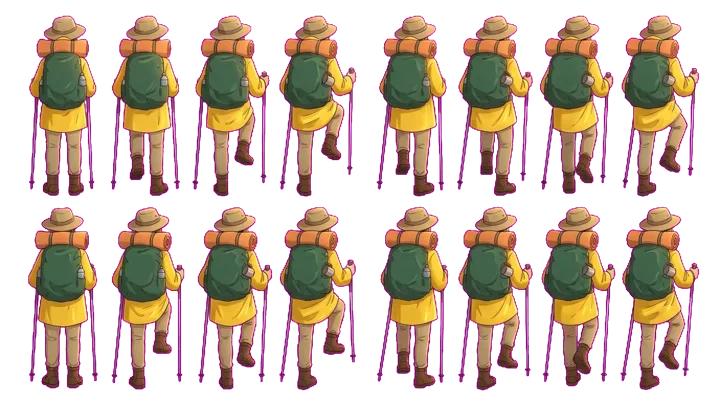
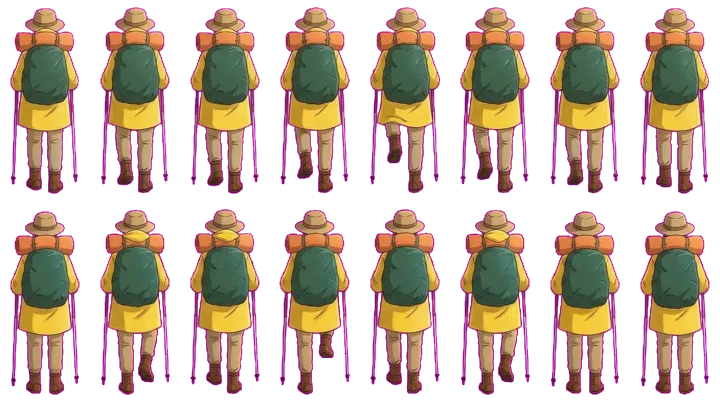
爬階梯換成 16 格（晴天、雨天，左右膝輪流），踩上台階那一格對齊爬階梯節奏；版本 80

diff --git a/js/trail.js b/js/trail.js
@@ -148,7 +148,7 @@ const GAIT = {
 // 走路圖的高度修正：每張圖量「帽頂到鞋底」佔整格多高（量出來都在 97～100%），用一般走路圖當基準換算，換圖時人不會忽大忽小。重畫了圖要重新量
 // 一般走路：正背面十六格圖（格子播放順序在 art.js 的 WALK16 重排，左右腳輪流）
 const WALK_DRY = 'hiker_walk16', WALK_RAIN = 'hiker_rain_walk16';
-const GAIT_H = { hiker_walk:1, hiker_rain_walk:1, hiker_walk16:1, hiker_rain_walk16:1, hiker_walk8:1, hiker_rain_walk8:1, hiker_stairs8:1, hiker_rain_stairs8:0.995, hiker_tired_walk8:1, hiker_rain_tired_walk8:1.013, hiker_turn_walk8:1.005 };
+const GAIT_H = { hiker_walk:1, hiker_rain_walk:1, hiker_walk16:1, hiker_rain_walk16:1, hiker_stairs16:1, hiker_rain_stairs16:1, hiker_walk8:1, hiker_rain_walk8:1, hiker_stairs8:1, hiker_rain_stairs8:0.995, hiker_tired_walk8:1, hiker_rain_tired_walk8:1.013, hiker_turn_walk8:1.005 };
 const gait = { act:null, at:0, dur:0, aflip:false, sid:'', sf:false, tB:90, tH:90, tI:140, lookM:-1, lvl:0, pace:1, mode:'walk', modeT:9, modeF:false, bendT:0, tired:false, cur:'', curF:false, prev:'', prevF:false, k:1 };
 const parts = [], flyers = []; let pIdx = 0;
 let curS = null, curT = 0, heroDone = false;
@@ -1477,7 +1477,7 @@ function gaitMode(dt, dist, stam){
 S.pace = function(){ return gait.pace; };
 S.gait = function(){ return { g:gait, stair:hero.stair, turn:hero.turn, mv:hero.mv, ph:hero.ph, stepL:hero.stepL }; };   // 測試掛鉤：看現在的步態、把計時器歸零來測試各種動作
 // 現在要用哪一張走路圖、要不要鏡射（寫在 gait.sid、gait.sf；每格都會跑，不產生新的陣列、字串）
-const RAIN_OF = { hiker_stairs8:'hiker_rain_stairs8', hiker_tired_walk8:'hiker_rain_tired_walk8' };   // 下雨天：有穿雨衣的版本就用
+const RAIN_OF = { hiker_stairs16:'hiker_rain_stairs16', hiker_stairs8:'hiker_rain_stairs8', hiker_tired_walk8:'hiker_rain_tired_walk8' };   // 下雨天：有穿雨衣的版本就用
 function rainy(id){ const r = RAIN_OF[id]; return isRain && r && ART.get(r) ? r : id; }
 function gaitSheet(){
   gait.sf = false;
@@ -1485,7 +1485,7 @@ function gaitSheet(){
   // 一般走路：正背面十六格圖（WALK_DRY／WALK_RAIN），下雨天穿黃色雨衣
   const walk = isRain && ART.get(WALK_RAIN) ? WALK_RAIN : WALK_DRY;
   // 階梯、累了：重畫成正背面直直走的版本（雨天換雨衣版）；彎道：轉身圖（往右前方，左彎鏡射），沒有雨衣版所以雨天照舊一般走路
-  const m = gait.mode, id = m === 'stairs' ? rainy('hiker_stairs8') : m === 'tired' ? rainy('hiker_tired_walk8') : null;   // 轉彎也用一般走路圖（側面大跨步的轉彎圖腳張太開，跟正背面走路對不起來，不用）
+  const m = gait.mode, id = m === 'stairs' ? rainy(ART.get('hiker_stairs16') ? 'hiker_stairs16' : 'hiker_stairs8') : m === 'tired' ? rainy('hiker_tired_walk8') : null;   // 轉彎也用一般走路圖（側面大跨步的轉彎圖腳張太開，跟正背面走路對不起來，不用）
   if (id && ART.get(id)) { gait.sid = id; gait.sf = m === 'turn' && gait.modeF; }
   else gait.sid = walk;
 }

diff --git a/index.html b/index.html
@@ -12,7 +12,7 @@
 <link rel="preconnect" href="https://fonts.googleapis.com">
 <link rel="preconnect" href="https://fonts.gstatic.com" crossorigin>
 <link href="https://fonts.googleapis.com/css2?family=Iansui&family=LXGW+WenKai+TC&display=swap" rel="stylesheet">
-<link rel="stylesheet" href="css/style.css?v=79">
+<link rel="stylesheet" href="css/style.css?v=80">
 </head>
 <body>
 <div id="app">
@@ -91,19 +91,19 @@
   <input type="file" id="upFile" accept="image/*" hidden>
 </div>
 
-<script src="js/data.js?v=79"></script>
-<script src="js/motion.js?v=79"></script>
-<script src="js/audio.js?v=79"></script>
-<script src="js/clay.js?v=79"></script>
-<script src="js/art.js?v=79"></script>
-<script src="js/gl2d.js?v=79"></script>
-<script src="js/trail.js?v=79"></script>
-<script src="js/worldmap.js?v=79"></script>
-<script src="js/hud.js?v=79"></script>
-<script src="js/game.js?v=79"></script>
-<script src="js/config.js?v=79"></script>
-<script src="js/plaza.js?v=79"></script>
-<script src="js/social.js?v=79"></script>
+<script src="js/data.js?v=80"></script>
+<script src="js/motion.js?v=80"></script>
+<script src="js/audio.js?v=80"></script>
+<script src="js/clay.js?v=80"></script>
+<script src="js/art.js?v=80"></script>
+<script src="js/gl2d.js?v=80"></script>
+<script src="js/trail.js?v=80"></script>
+<script src="js/worldmap.js?v=80"></script>
+<script src="js/hud.js?v=80"></script>
+<script src="js/game.js?v=80"></script>
+<script src="js/config.js?v=80"></script>
+<script src="js/plaza.js?v=80"></script>
+<script src="js/social.js?v=80"></script>
 <script>if ("serviceWorker" in navigator) addEventListener("load", () => navigator.serviceWorker.register("sw.js").catch(() => {}));</script>
 </body>
 </html>

diff --git a/js/art.js b/js/art.js
@@ -14,11 +14,14 @@ let loaded = false;
 // order：Gemini 畫的格子順序不對（左右腳沒輪流）時，播放順序照這串（0 起算的原圖格號）
 // hiker_walk16 原圖左右腳沒照順序畫：挑出「左腳抬起 → 落地 → 右腳抬起 → 落地」的播放順序
 const WALK16 = [8, 6, 1, 4, 14, 5, 0, 15, 9, 2, 11, 3, 13, 7, 12, 10];
+// hiker_stairs16 原圖第 7、15 格是腳剛踩上上一階：往後挪一格，對齊爬階梯節奏（八格圖是第 4、8 格踩上去）
+const STAIRS16 = [15, 0, 1, 2, 3, 4, 5, 6, 7, 8, 9, 10, 11, 12, 13, 14];
 const SHEETS = [
   [/_(walk|stairs)8$/, 4, 2],     // hiker_walk8、hiker_stairs8、hiker_tired_walk8、hiker_turn_walk8、hiker_front_walk8、hiker_side_walk8，和各自的雨衣版
   [/_walk$/, 4, 1],               // hiker_walk、hiker_rain_walk、pet_<id>_walk、pet_<id>_rain_walk
   [/_hop4$/, 4, 1, { air:true }], // hiker_hop4：蹲 → 跳起來 → 落地 → 站直
-  [/_walk16$/, 8, 2, { order:WALK16 }]   // hiker_walk16、hiker_rain_walk16（兩張姿勢相同）
+  [/_walk16$/, 8, 2, { order:WALK16 }],  // hiker_walk16、hiker_rain_walk16（兩張姿勢相同）
+  [/_stairs16$/, 8, 2, { order:STAIRS16 }] // hiker_stairs16、hiker_rain_stairs16：前 8 格抬左膝、後 8 格抬右膝
 ];
 const POSE = /^hiker_/;   // 登山客的圖：單張動作也用上半身置中（見 prep）
 function sheetOf(id){ for (let i = 0; i < SHEETS.length; i++) if (SHEETS[i][0].test(id)) return SHEETS[i]; return null; }

diff --git a/sw.js b/sw.js
@@ -1,7 +1,7 @@
 // 山行小日子：離線快取。程式與頁面「先抓網路、失敗才用快取」，所以更新會馬上生效；音樂圖示則先用快取。
 // 兩個快取：CACHE 放程式和頁面，每次改版換新名字；ART_CACHE 放美術圖和聲音，名字永遠不變，改版也不清掉，
 // 玩家只會下載有換過的圖和新圖（美術圖網址帶 ?v=檔案指紋，圖換了網址才會變）。
-const CACHE = 'shanxing-v79';
+const CACHE = 'shanxing-v80';
 const ART_CACHE = 'shanxing-art';
 const isArt = u => /\/(audio|art)\//.test(u.pathname) && !/manifest\.json$/.test(u.pathname);
 self.addEventListener('install', e => { self.skipWaiting(); });
